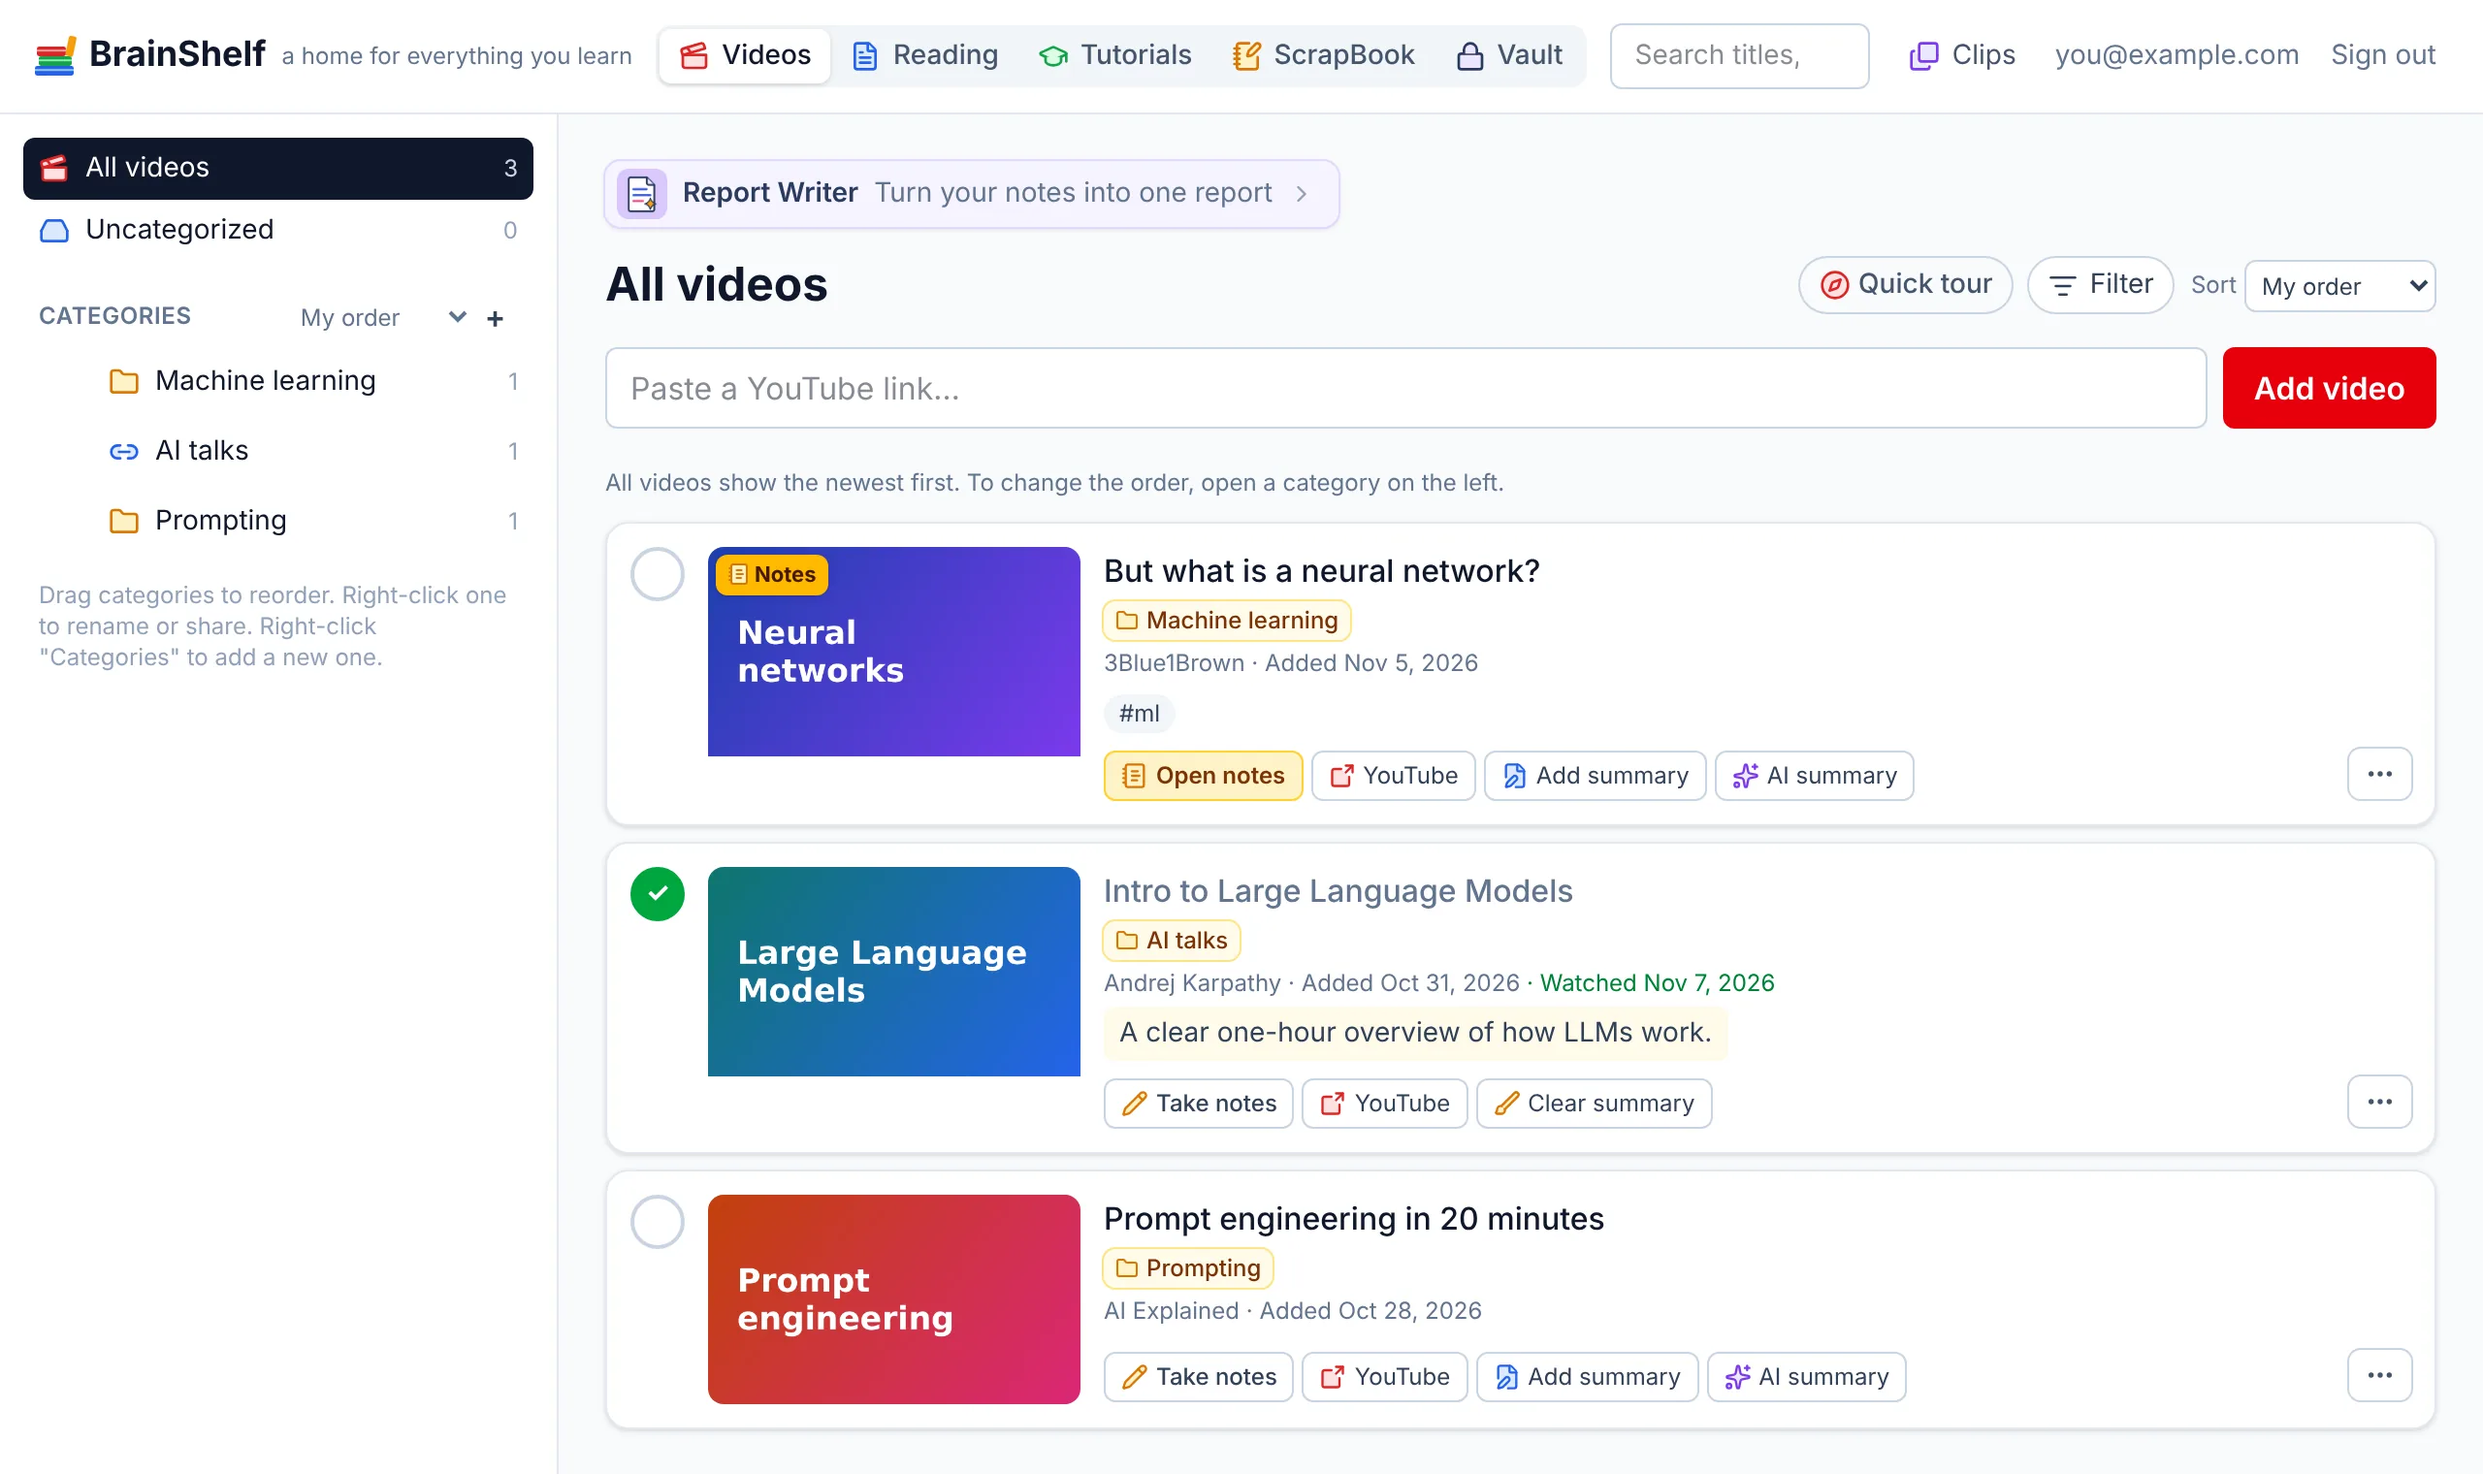
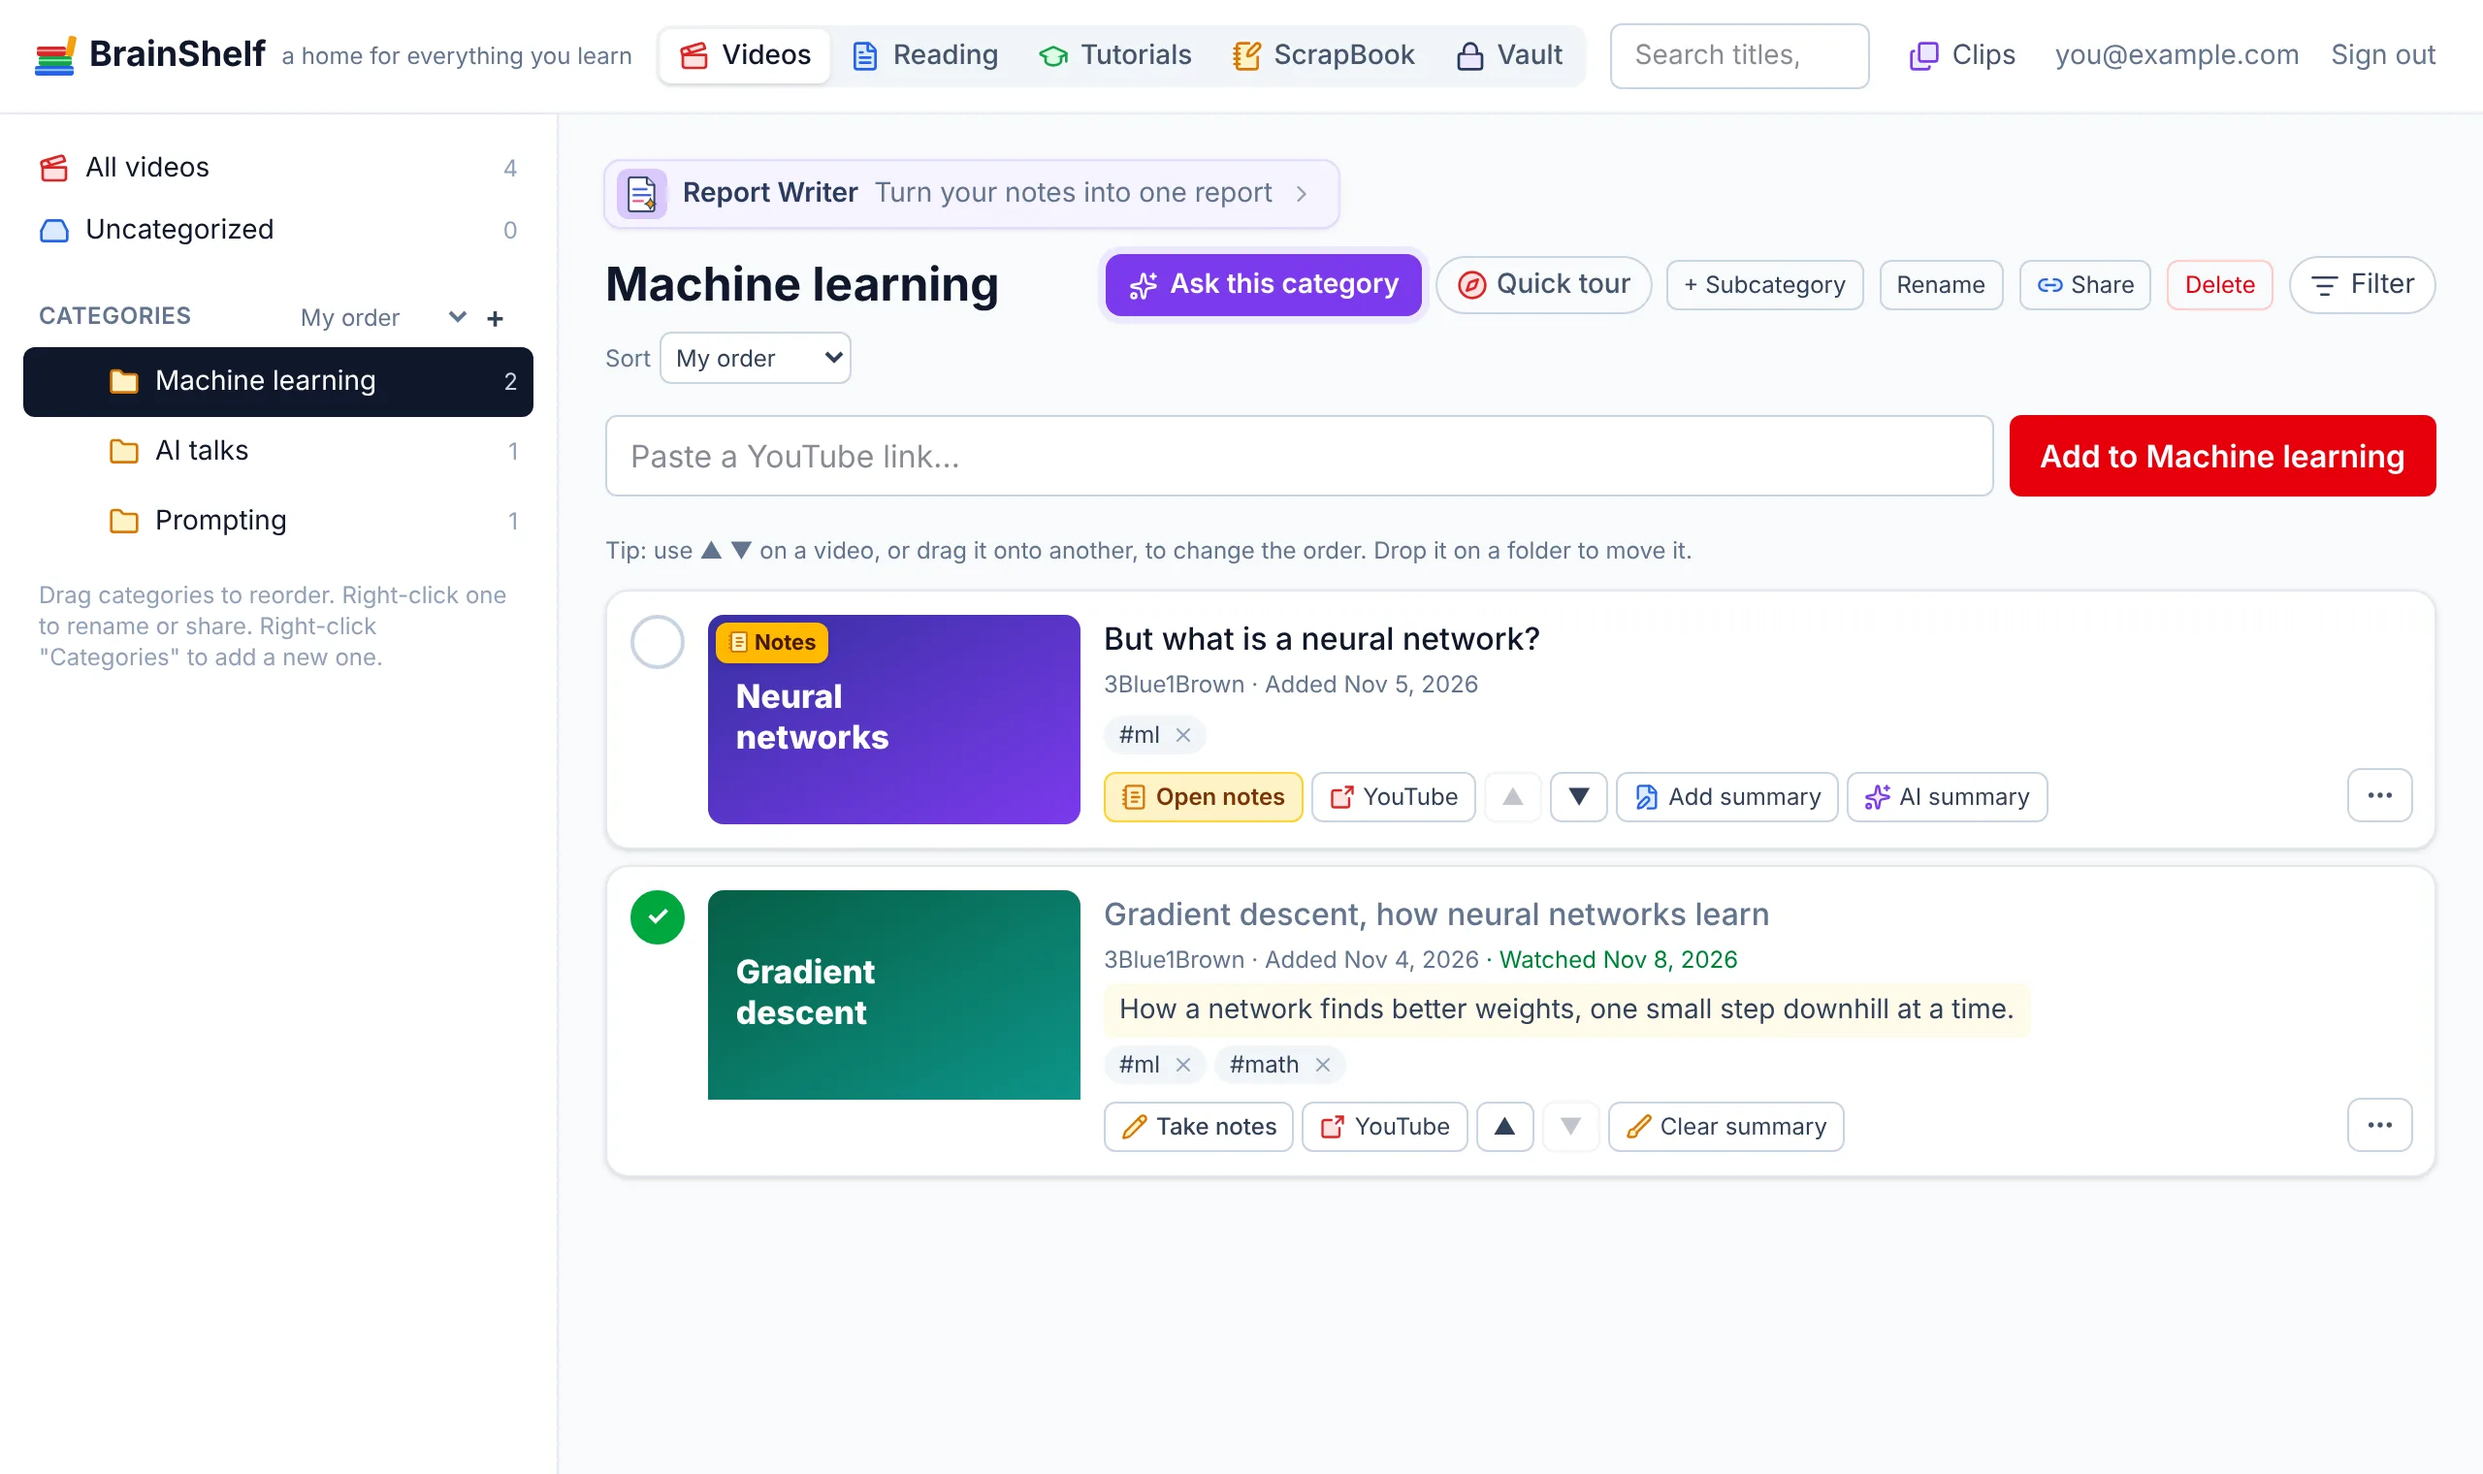
Fresh sign-in screenshots with Ask this category, and a Quick Tour step for it (#152)
* Every AI feature: give each model its own 5 minutes, and say "still working"

Extends what Videos got in #148 to Reading, Tutorials, ScrapBook files, Report
Writer and Ask this category. Each AI route is wrapped in aiRoute(), which reads
body.attempt and asks just that model (via AsyncLocalStorage in gemini.ts); the
browser's postAi() asks again with the next number while the answer says
tryNext. ScrapBook file questions reuse the copy Google already has for the next
model. The working messages say when another model is tried, and after 2.5
minutes that it's still working.

Claude-Session: https://claude.ai/code/session_018M3SaJ1Y2RRVBKjSwdN5rJ

* Shorter AI status and error messages

Claude-Session: https://claude.ai/code/session_018M3SaJ1Y2RRVBKjSwdN5rJ

* Deleting a video also deletes the pictures in its notes

Claude-Session: https://claude.ai/code/session_018M3SaJ1Y2RRVBKjSwdN5rJ

* Deleting an article, tutorial or ScrapBook page deletes everything that belongs to it

Claude-Session: https://claude.ai/code/session_018M3SaJ1Y2RRVBKjSwdN5rJ

* Fresh sign-in screenshots with Ask this category, and a Quick Tour step for it

Claude-Session: https://claude.ai/code/session_018M3SaJ1Y2RRVBKjSwdN5rJ

---------

diff --git a/src/lib/tours.ts b/src/lib/tours.ts
@@ -21,6 +21,11 @@ export const TOURS = {
       text: "Search everything you've saved, including your notes. Open any video to take notes beside it and Ask AI.",
     },
     {
+      target: "ask-category",
+      title: "Ask a whole category",
+      text: "Open a category and tap Ask this category to ask one question across all its videos. Each answer says which video it came from, and tapping a time jumps to that moment.",
+    },
+    {
       target: "report-writer",
       title: "Turn notes into a report",
       text: "Report Writer pulls your notes from videos, readings and tutorials into one report you can edit, copy or download for Word.",
@@ -75,6 +80,11 @@ export const TOURS = {
       text: "While reading, open My notes to type with headings, bold and lists, or switch to Handwriting for Apple Pencil. Ask AI for a summary and add clips. Copy or Download Word takes typed notes anywhere.",
     },
     {
+      target: "ask-category",
+      title: "Ask a whole category",
+      text: "Open a category and tap Ask this category to ask one question across everything in it. Each answer says which item it came from.",
+    },
+    {
       target: "report-writer",
       title: "Turn notes into a report",
       text: "Report Writer pulls your notes from readings, tutorials and videos into one report you can edit, copy or download for Word.",
@@ -89,6 +99,11 @@ export const TOURS = {
     {
       title: "Type like in Word",
       text: "When typing on a page, use the toolbar for headings, bold, lists and highlight, add clips, then Copy it or Download Word. Add file puts PDFs, slides, documents, pictures and videos on the page. They stay on your computer, and Ask AI can read or watch them for you.",
+    },
+    {
+      target: "ask-category",
+      title: "Ask a whole category",
+      text: "Open a category and tap Ask this category to ask one question across all its pages. Each answer says which page it came from.",
     },
   ],
   vault: [

diff --git a/src/components/LandingTour.tsx b/src/components/LandingTour.tsx
@@ -32,7 +32,7 @@ const SLIDES: Slide[] = [
     icon: Link2,
     tone: "blue",
     title: "Paste a link",
-    text: "A YouTube video, an article, an X post or a tutorial. BrainShelf fills in the title and keeps it on your shelf, sorted into categories.",
+    text: "A YouTube video, an article, an X post or a tutorial. BrainShelf fills in the title and sorts it into a category. Then ask one question across a whole category.",
     src: "/landing/videos.webp",
     alt: "Your video library, with categories, notes and summaries",
   },
@@ -48,7 +48,7 @@ const SLIDES: Slide[] = [
     icon: FileText,
     tone: "blue",
     title: "Articles and tutorials too",
-    text: "Save posts, articles and how-to guides in their own tabs. Read them here with your notes beside them, and tick them off when you're done.",
+    text: "Save posts, articles and how-to guides in their own tabs. They're sorted by author on their own. Read them here with your notes beside them, and tick them off when you're done.",
     src: "/landing/reading.webp",
     alt: "The Reading tab with categories, notes and read ticks",
   },
